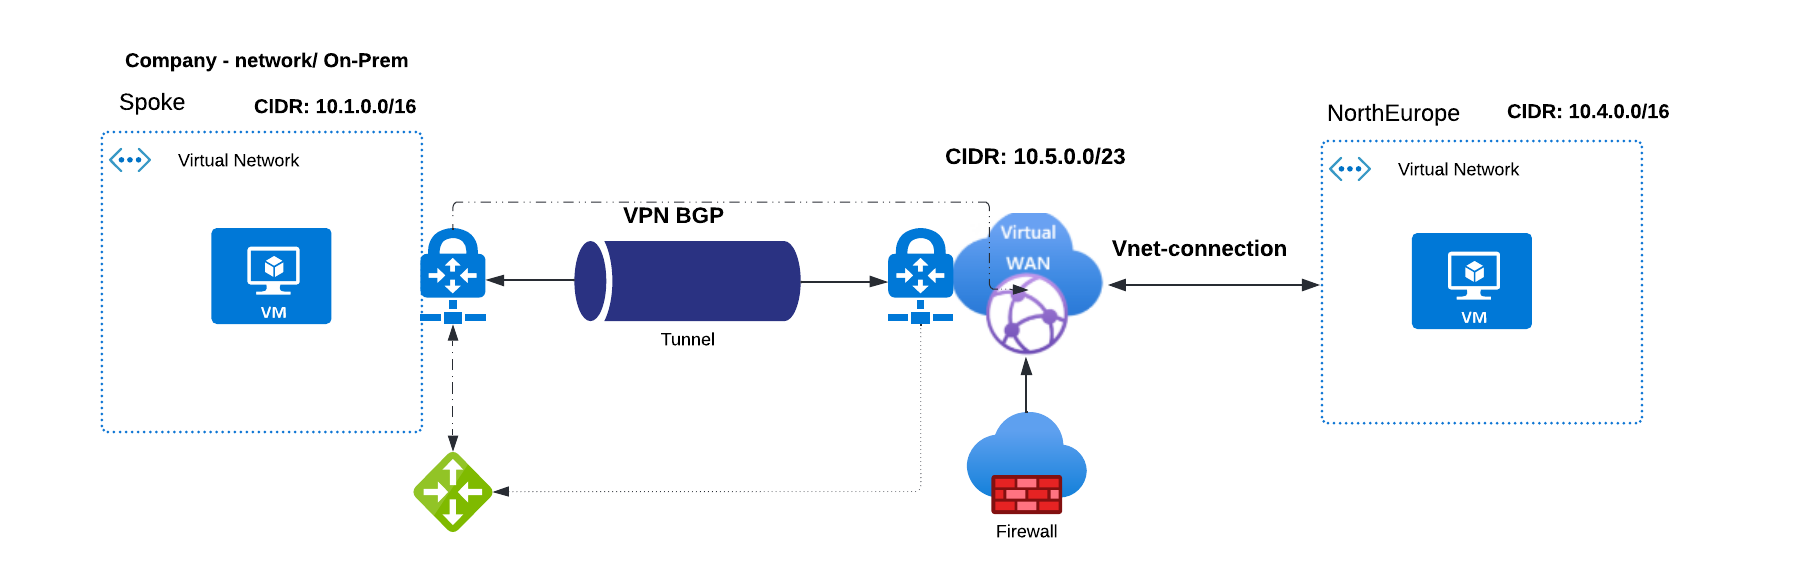
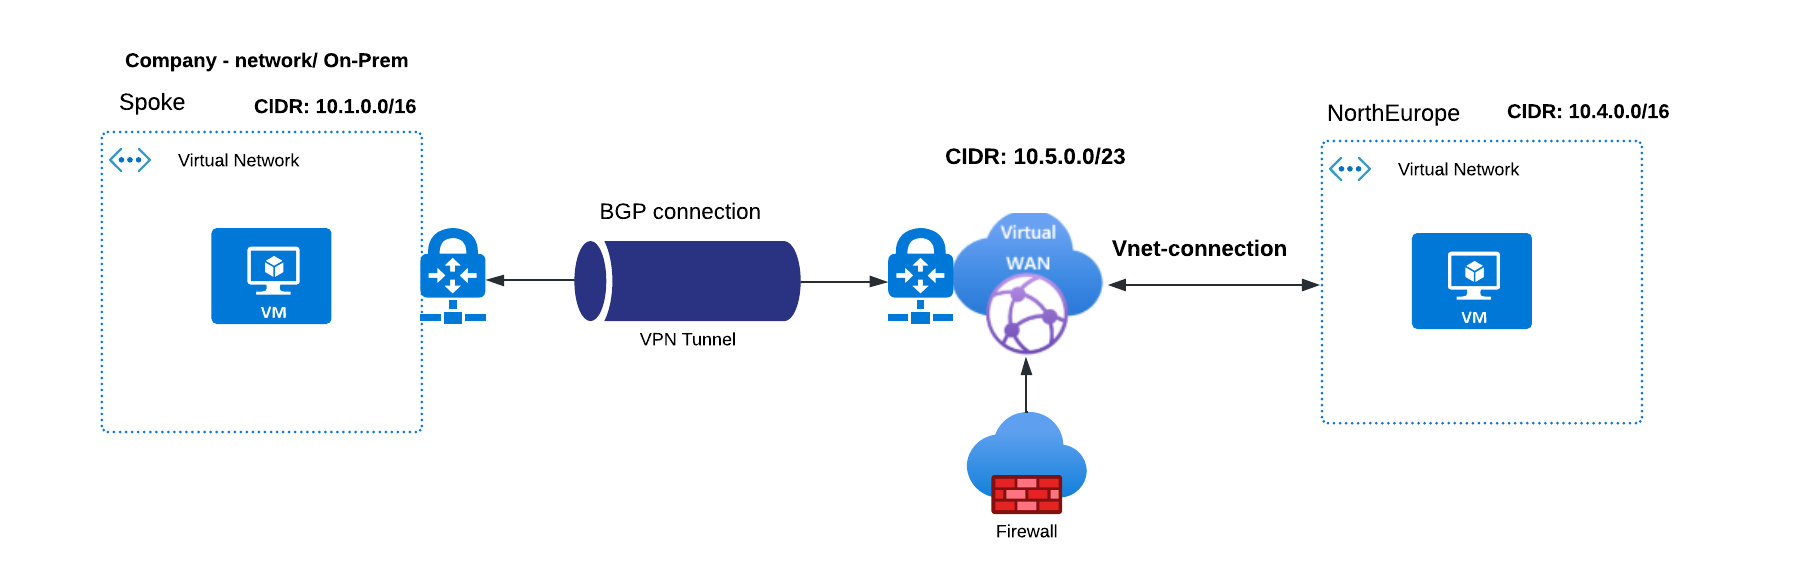
update code

diff --git a/README.md b/README.md
@@ -1,8 +1,11 @@
 # azure-vwan-hub-VPN-BGP
 
+Updates:
+- Adding firewall
+
 Enable BGP connection between azure vhub vpn-gateway and local network.
 
-> **Note**: You required a simulated corporate network. Please follow [here](https://github.com/sree7k7/tf_vnet_vpn_lgw_bastion), helps on implementing simulated on-prem network.
+**Note**: You required a simulated corporate network. Please follow [here](https://github.com/sree7k7/tf_vnet_vpn_lgw_bastion), helps on implementing simulated on-prem network.
 
 ![diagram](/pics/VWAN-S2S-VPN-BGP.png)
 ## Prerequsites
@@ -11,6 +14,7 @@ Enable BGP connection between azure vhub vpn-gateway and local network.
 
 1. You need on-prem: *VPN-gateway pip, ASN, BGP-peer ip, PSK*.
 2. Once you have on-prem details, change the below paramter values from *variable.tf* i.e, on-prem vpn gateway shown in below pic.
+
 ```terraform
 variable "vpn_gateway_pip" {
   default = "20.166.229.221"
@@ -30,7 +34,7 @@ variable "shared_key" {
 
 ```
 ![diagram](/pics/on-prem-vpn-gateway.png)
-3. execute below cmds:
+1. execute below cmds:
 ```terraform 
    terraform init
    terraform plan
@@ -39,3 +43,4 @@ variable "shared_key" {
 > **Note**: If fails, try to execute: **terraform init -upgrade** on terminal and execute cmd: **terraform apply**.
 
 1. Verify the connectivity status at virtual_hub VPN site. Check this by navigating to Virtual WANs → Virtual hub → VPN (Site to site) → vpn Sites → check the site.
+
